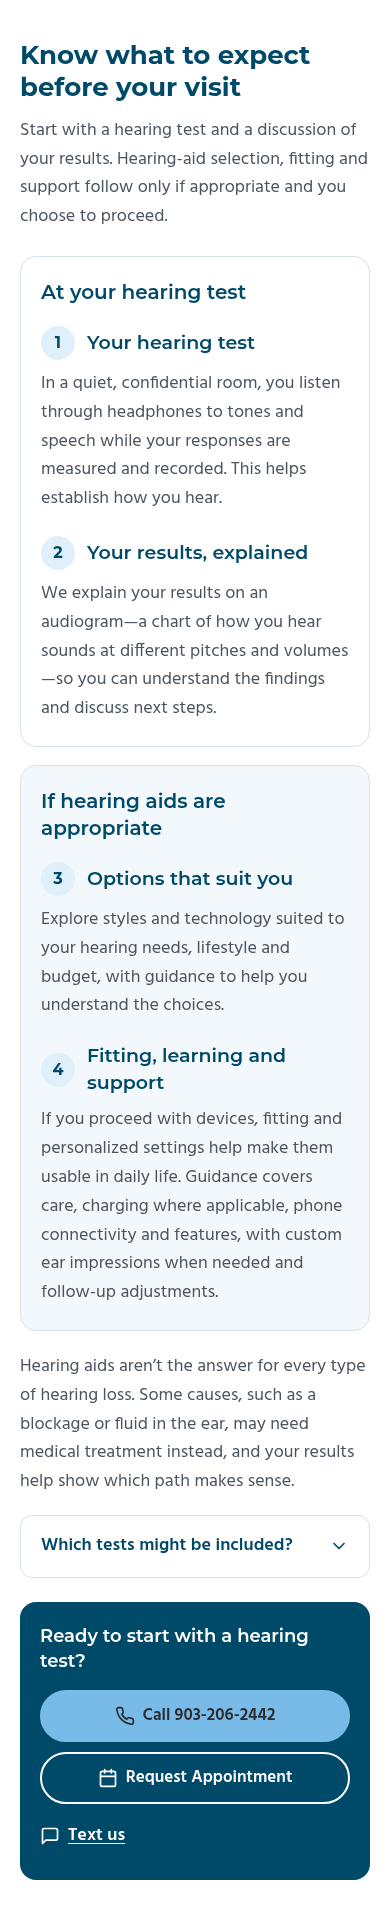
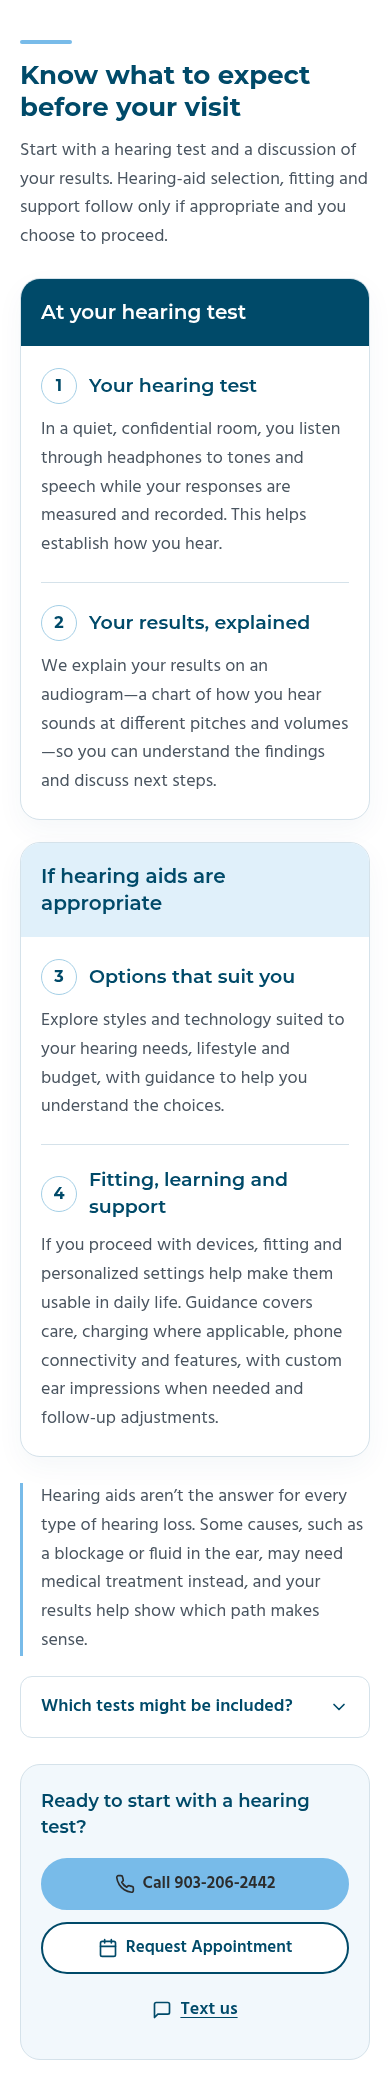
Refine process phase hierarchy and contact layout

Changed region(s): [[0.0308, 0.406, 0.9538, 0.9995], [0.0308, 0.0, 0.9538, 0.3748]]

diff --git a/index.html b/index.html
@@ -426,51 +426,61 @@ a:hover{ color:var(--hc-navy); }
  .hc-practice .hc-owner-license{ line-height:1.55; }
 }
 
-/* ---------- Process: approved two-phase editorial layout ---------- */
-.hc-process{ padding:60px 0; background:var(--hc-white); }
-.hc-process__intro{ max-width:940px; margin-bottom:30px; }
+/* ---------- Process: two-phase editorial layout ---------- */
+.hc-process{ padding:64px 0; background:var(--hc-white); }
+.hc-process__intro{ max-width:940px; margin-bottom:34px; }
+.hc-process__intro::before{ content:""; display:block; width:52px; height:4px; margin-bottom:20px; border-radius:4px; background:var(--hc-sky); }
 .hc-process__intro > p{ margin-top:16px; color:var(--hc-muted); font-size:1.125rem; line-height:1.6; }
-.hc-process__phases{ display:grid; grid-template-columns:repeat(2,minmax(0,1fr)); gap:28px; align-items:start; }
-.hc-process__phase{ padding:28px; border:1px solid var(--hc-border); border-radius:16px; }
-.hc-process__phase--conditional{ background:var(--hc-surface); }
-.hc-process__phase > h3{ margin:0 0 24px; color:var(--hc-navy); font-size:1.375rem; line-height:1.35; }
-.hc-process__steps{ list-style:none; margin:0; padding:0; display:grid; gap:26px; }
-.hc-process__steps li{ display:grid; grid-template-columns:34px minmax(0,1fr); gap:10px 12px; align-items:center; }
-.hc-process__number{ display:flex; align-items:center; justify-content:center; width:34px; height:34px; border-radius:50%; background:#e0f0fa; color:var(--hc-navy); font-family:var(--hc-head); font-size:1rem; font-weight:700; }
+.hc-process__phases{ display:grid; grid-template-columns:repeat(2,minmax(0,1fr)); gap:28px; align-items:stretch; }
+.hc-process__phase{ border:1px solid var(--hc-border); border-radius:20px; background:var(--hc-white); box-shadow:0 10px 28px rgba(0,74,105,.045); }
+.hc-process__phase > h3{ margin:0; padding:23px 28px; border-radius:19px 19px 0 0; background:var(--hc-navy); color:var(--hc-white); font-size:1.375rem; line-height:1.35; }
+.hc-process__phase--conditional > h3{ background:#e0f0fa; color:var(--hc-navy); }
+.hc-process__steps{ list-style:none; margin:0; padding:28px; display:grid; gap:24px; }
+.hc-process__steps li{ display:grid; grid-template-columns:42px minmax(0,1fr); gap:12px 14px; align-items:center; }
+.hc-process__steps li + li{ padding-top:24px; border-top:1px solid var(--hc-border); }
+.hc-process__number{ display:flex; align-items:center; justify-content:center; width:42px; height:42px; border:1px solid #a4cfe6; border-radius:50%; background:var(--hc-white); color:var(--hc-navy); font-family:var(--hc-head); font-size:1.125rem; font-weight:700; }
 .hc-process__steps h4{ margin:0; color:var(--hc-navy); font-family:var(--hc-head); font-size:1.1875rem; font-weight:600; line-height:1.4; }
 .hc-process__steps p{ grid-column:1 / -1; margin:0; font-size:1.125rem; line-height:1.6; color:var(--hc-muted); }
-.hc-process__details{ margin-top:28px; display:grid; grid-template-columns:minmax(0,1fr) minmax(0,1fr); gap:28px; align-items:start; }
-.hc-process__details > p{ color:var(--hc-muted); font-size:1.125rem; line-height:1.6; }
+.hc-process__details{ margin-top:30px; display:grid; grid-template-columns:minmax(0,1fr) minmax(0,1fr); gap:28px; align-items:start; }
+.hc-process__details > p{ padding-left:18px; border-left:3px solid var(--hc-sky); color:var(--hc-muted); font-size:1.125rem; line-height:1.6; }
 .hc-process .hc-more summary{ font-size:1.125rem; }
 .hc-process .hc-more__body,.hc-process .hc-more__body > p{ font-size:1.125rem; line-height:1.6; }
-.hc-process__contact{ display:grid; grid-template-columns:minmax(0,1fr) auto; gap:20px 32px; align-items:center; margin-top:30px; padding:24px 28px; border-radius:16px; background:var(--hc-navy); color:var(--hc-white); }
-.hc-process__contact > p{ font-family:var(--hc-head); font-size:1.25rem; line-height:1.4; font-weight:600; }
-.hc-process__contact .hc-cta{ display:grid; grid-template-columns:repeat(2,minmax(0,1fr)); gap:10px 14px; }
+.hc-process__contact{ display:grid; grid-template-columns:minmax(0,1fr) auto; gap:20px 28px; align-items:center; margin-top:32px; padding:28px; border:1px solid var(--hc-border); border-radius:20px; background:var(--hc-surface); color:var(--hc-navy); }
+.hc-process__contact > p{ max-width:350px; font-family:var(--hc-head); font-size:1.25rem; line-height:1.4; font-weight:600; }
+.hc-process__contact .hc-cta{ display:grid; grid-template-columns:auto auto auto; gap:14px; align-items:center; }
 .hc-process__contact .hc-btn{ width:100%; min-height:52px; border-radius:999px; gap:8px; text-align:center; white-space:normal; }
 .hc-process__contact .hc-btn > span{ display:block; line-height:1.25; }
-.hc-process__contact .hc-btn--appt{ color:var(--hc-white); border-color:var(--hc-white); background:transparent; }
-.hc-process__contact .hc-btn--appt:hover{ background:var(--hc-white); color:var(--hc-navy); }
-.hc-process__contact .hc-textlink{ grid-column:1 / -1; justify-self:start; color:var(--hc-white); }
-.hc-process__contact :focus-visible{ outline-color:var(--hc-sky); box-shadow:0 0 0 3px var(--hc-navy); }
+.hc-process__contact .hc-btn--appt{ color:var(--hc-navy); border-color:var(--hc-navy); background:var(--hc-white); }
+.hc-process__contact .hc-btn--appt:hover{ background:var(--hc-navy); color:var(--hc-white); }
+.hc-process__contact .hc-textlink{ justify-self:center; color:var(--hc-navy); white-space:nowrap; padding:10px 0; }
+.hc-process__contact :focus-visible{ outline-color:var(--hc-navy); }
+@media(max-width:1100px){
+ .hc-process__contact{ grid-template-columns:1fr; gap:18px; }
+ .hc-process__contact > p{ max-width:none; }
+ .hc-process__contact .hc-cta{ justify-self:start; }
+}
 @media(max-width:1023px){
  .hc-process__phases{ gap:20px; }
- .hc-process__phase{ padding:24px; }
- .hc-process__details{ grid-template-columns:1fr; gap:18px; }
- .hc-process__contact{ grid-template-columns:1fr; gap:16px; }
- .hc-process__contact .hc-cta{ justify-self:start; }
+ .hc-process__phase > h3{ padding:22px; }
+ .hc-process__steps{ padding:24px 22px; }
+ .hc-process__details{ grid-template-columns:1fr; gap:20px; }
 }
 @media(max-width:767px){
  .hc-process{ padding:40px 0; }
- .hc-process__intro{ margin-bottom:24px; }
+ .hc-process__intro{ margin-bottom:26px; }
+ .hc-process__intro::before{ margin-bottom:16px; }
  .hc-process__intro > p{ margin-top:14px; }
- .hc-process__phases{ grid-template-columns:minmax(0,1fr); gap:18px; }
- .hc-process__phase{ padding:22px 20px; }
- .hc-process__phase > h3{ margin-bottom:20px; font-size:1.25rem; }
- .hc-process__steps{ gap:22px; }
- .hc-process__details{ margin-top:22px; }
- .hc-process__contact{ margin-top:24px; padding:22px 20px; }
+ .hc-process__phases{ grid-template-columns:minmax(0,1fr); gap:22px; }
+ .hc-process__phase > h3{ padding:20px; font-size:1.25rem; }
+ .hc-process__steps{ padding:22px 20px; gap:22px; }
+ .hc-process__steps li{ grid-template-columns:36px minmax(0,1fr); gap:12px; }
+ .hc-process__number{ width:36px; height:36px; font-size:1rem; }
+ .hc-process__steps li + li{ padding-top:22px; }
+ .hc-process__details{ margin-top:26px; }
+ .hc-process__contact{ margin-top:26px; padding:24px 20px; }
  .hc-process__contact > p{ font-size:1.125rem; }
- .hc-process__contact .hc-cta{ width:100%; justify-self:stretch; }
+ .hc-process__contact .hc-cta{ width:100%; justify-self:stretch; grid-template-columns:1fr 1fr; gap:12px; }
+ .hc-process__contact .hc-textlink{ grid-column:1 / -1; }
 }
 @media(max-width:639px){ .hc-process__contact .hc-cta{ grid-template-columns:minmax(0,1fr); } }
 

diff --git a/review/hero-review.html b/review/hero-review.html
@@ -426,51 +426,61 @@ a:hover{ color:var(--hc-navy); }
  .hc-practice .hc-owner-license{ line-height:1.55; }
 }
 
-/* ---------- Process: approved two-phase editorial layout ---------- */
-.hc-process{ padding:60px 0; background:var(--hc-white); }
-.hc-process__intro{ max-width:940px; margin-bottom:30px; }
+/* ---------- Process: two-phase editorial layout ---------- */
+.hc-process{ padding:64px 0; background:var(--hc-white); }
+.hc-process__intro{ max-width:940px; margin-bottom:34px; }
+.hc-process__intro::before{ content:""; display:block; width:52px; height:4px; margin-bottom:20px; border-radius:4px; background:var(--hc-sky); }
 .hc-process__intro > p{ margin-top:16px; color:var(--hc-muted); font-size:1.125rem; line-height:1.6; }
-.hc-process__phases{ display:grid; grid-template-columns:repeat(2,minmax(0,1fr)); gap:28px; align-items:start; }
-.hc-process__phase{ padding:28px; border:1px solid var(--hc-border); border-radius:16px; }
-.hc-process__phase--conditional{ background:var(--hc-surface); }
-.hc-process__phase > h3{ margin:0 0 24px; color:var(--hc-navy); font-size:1.375rem; line-height:1.35; }
-.hc-process__steps{ list-style:none; margin:0; padding:0; display:grid; gap:26px; }
-.hc-process__steps li{ display:grid; grid-template-columns:34px minmax(0,1fr); gap:10px 12px; align-items:center; }
-.hc-process__number{ display:flex; align-items:center; justify-content:center; width:34px; height:34px; border-radius:50%; background:#e0f0fa; color:var(--hc-navy); font-family:var(--hc-head); font-size:1rem; font-weight:700; }
+.hc-process__phases{ display:grid; grid-template-columns:repeat(2,minmax(0,1fr)); gap:28px; align-items:stretch; }
+.hc-process__phase{ border:1px solid var(--hc-border); border-radius:20px; background:var(--hc-white); box-shadow:0 10px 28px rgba(0,74,105,.045); }
+.hc-process__phase > h3{ margin:0; padding:23px 28px; border-radius:19px 19px 0 0; background:var(--hc-navy); color:var(--hc-white); font-size:1.375rem; line-height:1.35; }
+.hc-process__phase--conditional > h3{ background:#e0f0fa; color:var(--hc-navy); }
+.hc-process__steps{ list-style:none; margin:0; padding:28px; display:grid; gap:24px; }
+.hc-process__steps li{ display:grid; grid-template-columns:42px minmax(0,1fr); gap:12px 14px; align-items:center; }
+.hc-process__steps li + li{ padding-top:24px; border-top:1px solid var(--hc-border); }
+.hc-process__number{ display:flex; align-items:center; justify-content:center; width:42px; height:42px; border:1px solid #a4cfe6; border-radius:50%; background:var(--hc-white); color:var(--hc-navy); font-family:var(--hc-head); font-size:1.125rem; font-weight:700; }
 .hc-process__steps h4{ margin:0; color:var(--hc-navy); font-family:var(--hc-head); font-size:1.1875rem; font-weight:600; line-height:1.4; }
 .hc-process__steps p{ grid-column:1 / -1; margin:0; font-size:1.125rem; line-height:1.6; color:var(--hc-muted); }
-.hc-process__details{ margin-top:28px; display:grid; grid-template-columns:minmax(0,1fr) minmax(0,1fr); gap:28px; align-items:start; }
-.hc-process__details > p{ color:var(--hc-muted); font-size:1.125rem; line-height:1.6; }
+.hc-process__details{ margin-top:30px; display:grid; grid-template-columns:minmax(0,1fr) minmax(0,1fr); gap:28px; align-items:start; }
+.hc-process__details > p{ padding-left:18px; border-left:3px solid var(--hc-sky); color:var(--hc-muted); font-size:1.125rem; line-height:1.6; }
 .hc-process .hc-more summary{ font-size:1.125rem; }
 .hc-process .hc-more__body,.hc-process .hc-more__body > p{ font-size:1.125rem; line-height:1.6; }
-.hc-process__contact{ display:grid; grid-template-columns:minmax(0,1fr) auto; gap:20px 32px; align-items:center; margin-top:30px; padding:24px 28px; border-radius:16px; background:var(--hc-navy); color:var(--hc-white); }
-.hc-process__contact > p{ font-family:var(--hc-head); font-size:1.25rem; line-height:1.4; font-weight:600; }
-.hc-process__contact .hc-cta{ display:grid; grid-template-columns:repeat(2,minmax(0,1fr)); gap:10px 14px; }
+.hc-process__contact{ display:grid; grid-template-columns:minmax(0,1fr) auto; gap:20px 28px; align-items:center; margin-top:32px; padding:28px; border:1px solid var(--hc-border); border-radius:20px; background:var(--hc-surface); color:var(--hc-navy); }
+.hc-process__contact > p{ max-width:350px; font-family:var(--hc-head); font-size:1.25rem; line-height:1.4; font-weight:600; }
+.hc-process__contact .hc-cta{ display:grid; grid-template-columns:auto auto auto; gap:14px; align-items:center; }
 .hc-process__contact .hc-btn{ width:100%; min-height:52px; border-radius:999px; gap:8px; text-align:center; white-space:normal; }
 .hc-process__contact .hc-btn > span{ display:block; line-height:1.25; }
-.hc-process__contact .hc-btn--appt{ color:var(--hc-white); border-color:var(--hc-white); background:transparent; }
-.hc-process__contact .hc-btn--appt:hover{ background:var(--hc-white); color:var(--hc-navy); }
-.hc-process__contact .hc-textlink{ grid-column:1 / -1; justify-self:start; color:var(--hc-white); }
-.hc-process__contact :focus-visible{ outline-color:var(--hc-sky); box-shadow:0 0 0 3px var(--hc-navy); }
+.hc-process__contact .hc-btn--appt{ color:var(--hc-navy); border-color:var(--hc-navy); background:var(--hc-white); }
+.hc-process__contact .hc-btn--appt:hover{ background:var(--hc-navy); color:var(--hc-white); }
+.hc-process__contact .hc-textlink{ justify-self:center; color:var(--hc-navy); white-space:nowrap; padding:10px 0; }
+.hc-process__contact :focus-visible{ outline-color:var(--hc-navy); }
+@media(max-width:1100px){
+ .hc-process__contact{ grid-template-columns:1fr; gap:18px; }
+ .hc-process__contact > p{ max-width:none; }
+ .hc-process__contact .hc-cta{ justify-self:start; }
+}
 @media(max-width:1023px){
  .hc-process__phases{ gap:20px; }
- .hc-process__phase{ padding:24px; }
- .hc-process__details{ grid-template-columns:1fr; gap:18px; }
- .hc-process__contact{ grid-template-columns:1fr; gap:16px; }
- .hc-process__contact .hc-cta{ justify-self:start; }
+ .hc-process__phase > h3{ padding:22px; }
+ .hc-process__steps{ padding:24px 22px; }
+ .hc-process__details{ grid-template-columns:1fr; gap:20px; }
 }
 @media(max-width:767px){
  .hc-process{ padding:40px 0; }
- .hc-process__intro{ margin-bottom:24px; }
+ .hc-process__intro{ margin-bottom:26px; }
+ .hc-process__intro::before{ margin-bottom:16px; }
  .hc-process__intro > p{ margin-top:14px; }
- .hc-process__phases{ grid-template-columns:minmax(0,1fr); gap:18px; }
- .hc-process__phase{ padding:22px 20px; }
- .hc-process__phase > h3{ margin-bottom:20px; font-size:1.25rem; }
- .hc-process__steps{ gap:22px; }
- .hc-process__details{ margin-top:22px; }
- .hc-process__contact{ margin-top:24px; padding:22px 20px; }
+ .hc-process__phases{ grid-template-columns:minmax(0,1fr); gap:22px; }
+ .hc-process__phase > h3{ padding:20px; font-size:1.25rem; }
+ .hc-process__steps{ padding:22px 20px; gap:22px; }
+ .hc-process__steps li{ grid-template-columns:36px minmax(0,1fr); gap:12px; }
+ .hc-process__number{ width:36px; height:36px; font-size:1rem; }
+ .hc-process__steps li + li{ padding-top:22px; }
+ .hc-process__details{ margin-top:26px; }
+ .hc-process__contact{ margin-top:26px; padding:24px 20px; }
  .hc-process__contact > p{ font-size:1.125rem; }
- .hc-process__contact .hc-cta{ width:100%; justify-self:stretch; }
+ .hc-process__contact .hc-cta{ width:100%; justify-self:stretch; grid-template-columns:1fr 1fr; gap:12px; }
+ .hc-process__contact .hc-textlink{ grid-column:1 / -1; }
 }
 @media(max-width:639px){ .hc-process__contact .hc-cta{ grid-template-columns:minmax(0,1fr); } }
 

diff --git a/review/PROCESS_REVIEW.md b/review/PROCESS_REVIEW.md
@@ -2,7 +2,7 @@
 
 User direction: Layout A with headline 4, “Know what to expect before your visit.” Implemented for rendered review; not locked pending user approval.
 
-Two phases distinguish the hearing test and explained results from optional hearing-aid selection, fitting and ongoing support. Four numbered steps remain. Descriptions use full width below headings on mobile; body and test-detail text remain 18px. A white canvas follows the tinted proof section, with a navy contact band and rounded Call/Appointment buttons plus a distinct Text link.
+Two phases distinguish the hearing test and explained results from optional hearing-aid selection, fitting and ongoing support. Four numbered steps remain. Descriptions use full width below headings on mobile; body and test-detail text remain 18px. A white canvas follows the tinted proof section, with a pale-blue contact panel and rounded Call/Appointment buttons plus a distinct Text link.
 
 Original test-type disclosure, its not-every-visit qualification, medical-treatment caveat, contact destinations, tracking hooks and appointment integration are preserved. No new image is needed. PAGE_STRATEGY.md, CONTENT_DIRECTION.md and DESIGN_SYSTEM.md record the approved direction.
 
@@ -23,3 +23,7 @@ Original test-type disclosure, its not-every-visit qualification, medical-treatm
 - [Expanded mobile test details](process-tests-mobile.png)
 
 Local rendering used cached production font families. Remote owner photo and logo access remain blocked locally; original hosted URLs are preserved. These process screenshots contain no replacement imagery. No calls, texts or form submissions were made. External form field loading and lead delivery require GHL QA.
+
+## Visual refinement requested after GHL screenshot
+
+Stronger navy/pale-blue phase headers, white equal-height panels, subtle shadows, outlined step numbers and internal dividers improve hierarchy. A short sky accent introduces the heading; the medical caveat gains a quiet left rule. The light contact panel aligns all three desktop actions in one row and stacks buttons on mobile. No wording, markup, heading sizes or integration changed. Exact source comparison verified only process-specific CSS changed in the page. Repeated seven-width overflow and keyboard interaction checks passed. Updated screenshots show the revision. Awaiting user review; not locked.

diff --git a/CONTENT_DIRECTION.md b/CONTENT_DIRECTION.md
@@ -195,3 +195,8 @@ User selected “Layout A with headline 4.” Current process H2: **Know what to
 Keep the source-backed point that some hearing-loss causes may need medical treatment. Preserve the full original test-type disclosure and its not-every-visit qualification; make its expanded text readable and keyboard accessible. A compact navy contact band keeps Call primary, Request Appointment secondary and a separate Text action, with existing values, hooks and destinations. Main prose/disclosure copy is 18px; mobile descriptions use full width under each numbered heading. White section canvas provides a quieter transition after the preceding tinted Google-proof area. No photograph or new image slot is added.
 
 The supplied desktop/mobile screenshots and current code were assessed before edits. Current section is implemented for review, NOT LOCKED. All three approved sections, header, other sections, shared disclosure styles and integration scripts remain byte-identical outside the process scope. No page-order change, unsupported medical/pricing/availability claim or new promotion. IMAGE_PROMPTS.md remains unchanged because no image role or asset was changed.
+
+
+## Process visual refinement after GHL screenshot
+
+User requested a better design of the current unlocked process section. Preserve Layout A, headline 4 and all copy/integrations. Strengthen phase hierarchy with a navy first-phase header and pale-blue conditional header, white equal-height panels, outlined step numbers and internal dividers. Use a restrained heading accent and a medical-note rule. Replace the heavy navy contact block with a lighter surface and align Call, Appointment and Text on one desktop row; stack at mobile widths. Keep 18px body text and full-width mobile descriptions. All previously locked sections remain unchanged. Pending rendered approval.

diff --git a/DESIGN_SYSTEM.md b/DESIGN_SYSTEM.md
@@ -229,3 +229,8 @@ User selected “Layout A with headline 4.” Current process H2: **Know what to
 Keep the source-backed point that some hearing-loss causes may need medical treatment. Preserve the full original test-type disclosure and its not-every-visit qualification; make its expanded text readable and keyboard accessible. A compact navy contact band keeps Call primary, Request Appointment secondary and a separate Text action, with existing values, hooks and destinations. Main prose/disclosure copy is 18px; mobile descriptions use full width under each numbered heading. White section canvas provides a quieter transition after the preceding tinted Google-proof area. No photograph or new image slot is added.
 
 The supplied desktop/mobile screenshots and current code were assessed before edits. Current section is implemented for review, NOT LOCKED. All three approved sections, header, other sections, shared disclosure styles and integration scripts remain byte-identical outside the process scope. No page-order change, unsupported medical/pricing/availability claim or new promotion. IMAGE_PROMPTS.md remains unchanged because no image role or asset was changed.
+
+
+## Process visual refinement after GHL screenshot
+
+User requested a better design of the current unlocked process section. Preserve Layout A, headline 4 and all copy/integrations. Strengthen phase hierarchy with a navy first-phase header and pale-blue conditional header, white equal-height panels, outlined step numbers and internal dividers. Use a restrained heading accent and a medical-note rule. Replace the heavy navy contact block with a lighter surface and align Call, Appointment and Text on one desktop row; stack at mobile widths. Keep 18px body text and full-width mobile descriptions. All previously locked sections remain unchanged. Pending rendered approval.

diff --git a/PAGE_STRATEGY.md b/PAGE_STRATEGY.md
@@ -262,3 +262,8 @@ User selected “Layout A with headline 4.” Current process H2: **Know what to
 Keep the source-backed point that some hearing-loss causes may need medical treatment. Preserve the full original test-type disclosure and its not-every-visit qualification; make its expanded text readable and keyboard accessible. A compact navy contact band keeps Call primary, Request Appointment secondary and a separate Text action, with existing values, hooks and destinations. Main prose/disclosure copy is 18px; mobile descriptions use full width under each numbered heading. White section canvas provides a quieter transition after the preceding tinted Google-proof area. No photograph or new image slot is added.
 
 The supplied desktop/mobile screenshots and current code were assessed before edits. Current section is implemented for review, NOT LOCKED. All three approved sections, header, other sections, shared disclosure styles and integration scripts remain byte-identical outside the process scope. No page-order change, unsupported medical/pricing/availability claim or new promotion. IMAGE_PROMPTS.md remains unchanged because no image role or asset was changed.
+
+
+## Process visual refinement after GHL screenshot
+
+User requested a better design of the current unlocked process section. Preserve Layout A, headline 4 and all copy/integrations. Strengthen phase hierarchy with a navy first-phase header and pale-blue conditional header, white equal-height panels, outlined step numbers and internal dividers. Use a restrained heading accent and a medical-note rule. Replace the heavy navy contact block with a lighter surface and align Call, Appointment and Text on one desktop row; stack at mobile widths. Keep 18px body text and full-width mobile descriptions. All previously locked sections remain unchanged. Pending rendered approval.
